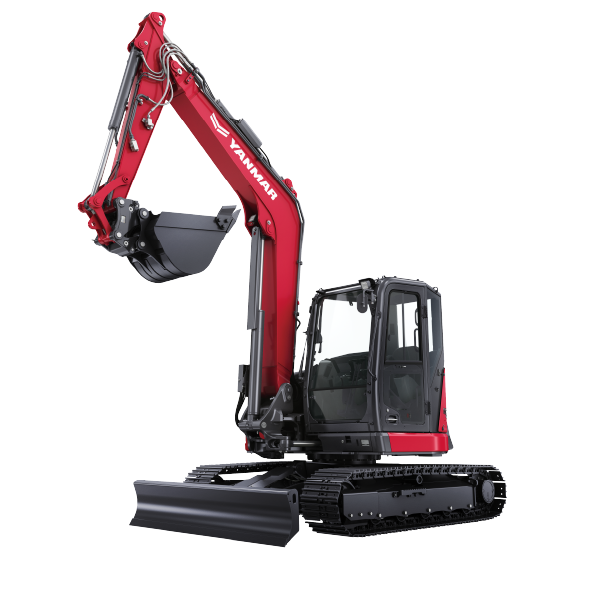
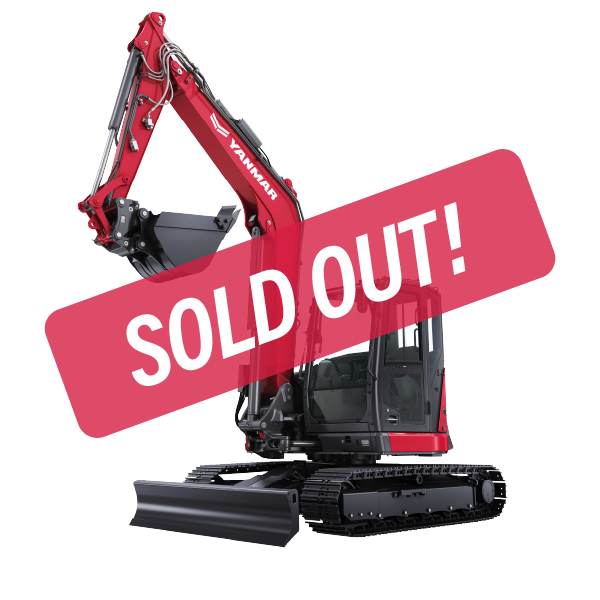
update yanmar spring sale

Changed region(s): [[0.06, 0.24, 0.93, 0.75]]

diff --git a/html/yanmar-spring-sale.html b/html/yanmar-spring-sale.html
@@ -838,7 +838,7 @@
             <a href="https://www.tdxltd.co.nz/yanmar-sv86-7-mini-excavator/model/1236/133/34" target="_blank" style="display: inline-block; position: absolute; width: 100%; bottom: 1vh; left: 0;color: #d71240;">View Specs (New window)</a>
             
             <div class="yanmarNoiseBG">
-                <img src="/images/2026/11-08-yanmar-spring-sale/compress/sv86-7-model.webp">
+                <img src="/images/2026/11-08-yanmar-spring-sale/compress/sv86-7-model-SOLDOUT.webp">
             </div>
             
         </div>
@@ -859,7 +859,7 @@
             <br>
             <hr>
             <br>
-            <label for="10" class="fancyLabel"><input type="checkbox" value="" id="10">&nbsp;I'm interested!</label> 
+            
         </div>
         <div class="thumb d"></div>
         <div class="thumb d"></div>
